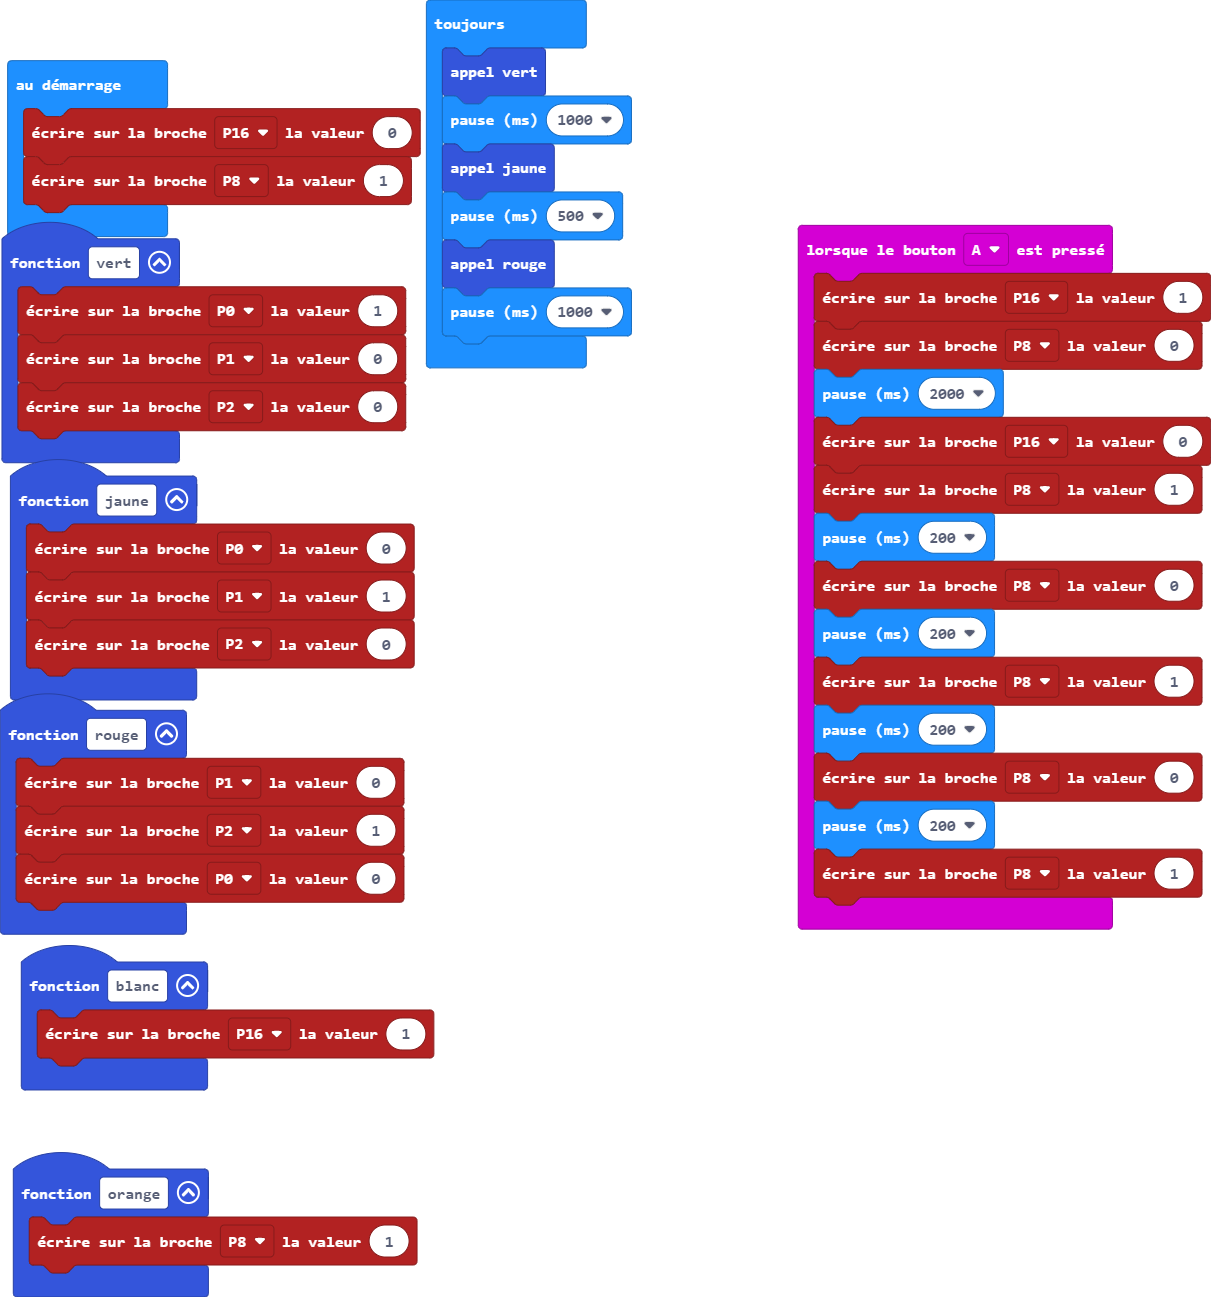
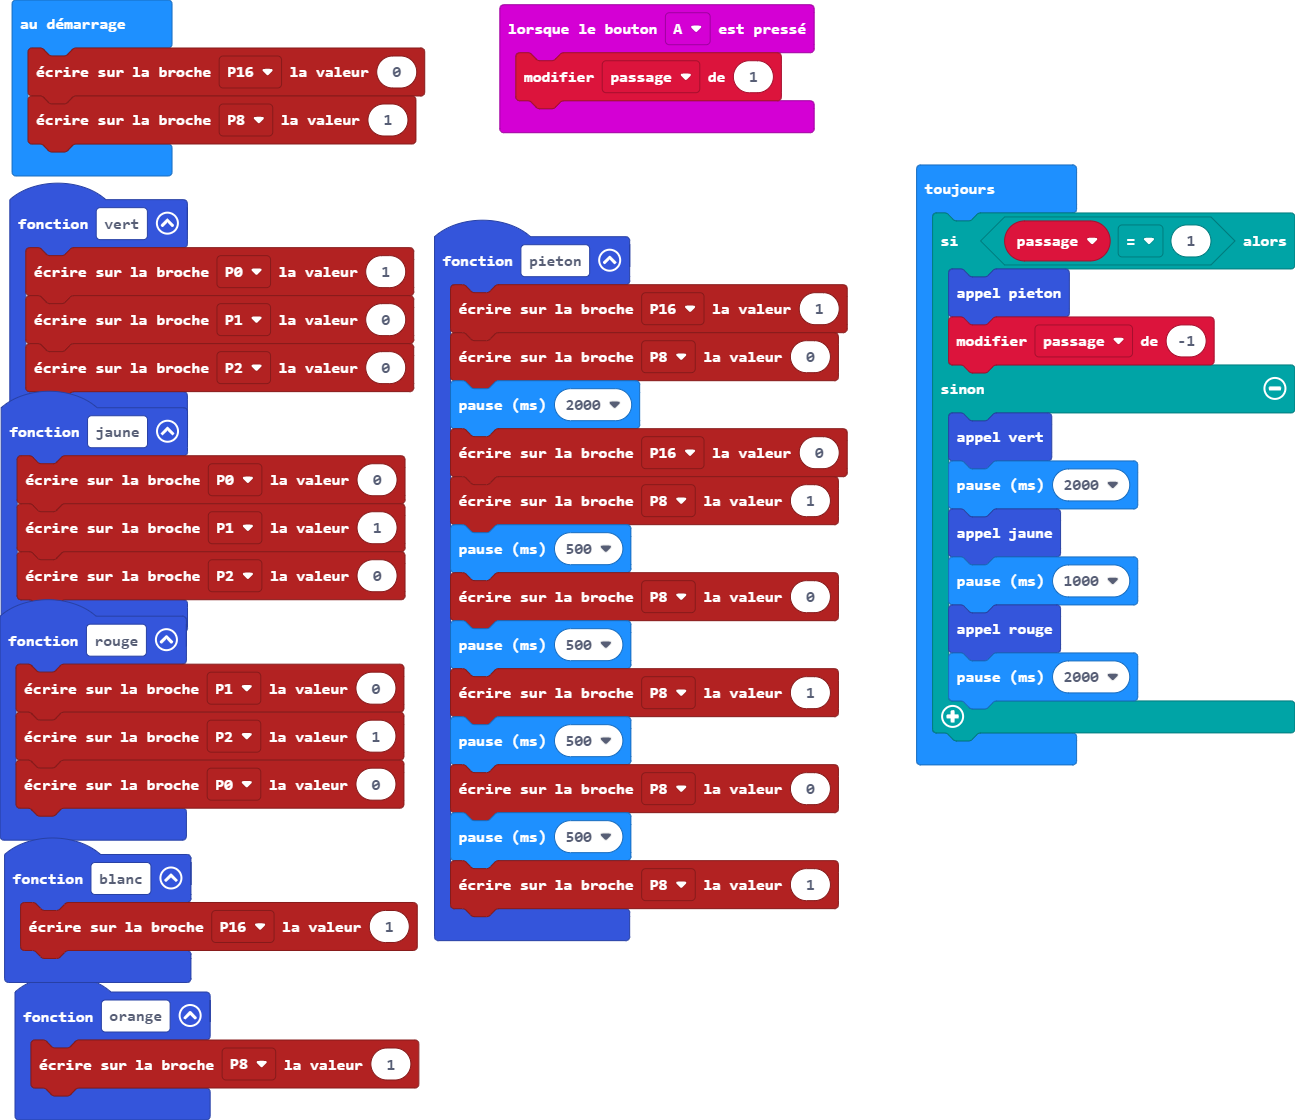
Mise à jour main.blocks, main.ts

diff --git a/main.ts b/main.ts
@@ -4,24 +4,27 @@ function jaune () {
     pins.digitalWritePin(DigitalPin.P2, 0)
 }
 input.onButtonPressed(Button.A, function () {
-    pins.digitalWritePin(DigitalPin.P16, 1)
-    pins.digitalWritePin(DigitalPin.P8, 0)
-    basic.pause(2000)
-    pins.digitalWritePin(DigitalPin.P16, 0)
-    pins.digitalWritePin(DigitalPin.P8, 1)
-    basic.pause(200)
-    pins.digitalWritePin(DigitalPin.P8, 0)
-    basic.pause(200)
-    pins.digitalWritePin(DigitalPin.P8, 1)
-    basic.pause(200)
-    pins.digitalWritePin(DigitalPin.P8, 0)
-    basic.pause(200)
-    pins.digitalWritePin(DigitalPin.P8, 1)
+    passage += 1
 })
 function blanc () {
     pins.digitalWritePin(DigitalPin.P16, 1)
 }
 function orange () {
+    pins.digitalWritePin(DigitalPin.P8, 1)
+}
+function pieton () {
+    pins.digitalWritePin(DigitalPin.P16, 1)
+    pins.digitalWritePin(DigitalPin.P8, 0)
+    basic.pause(2000)
+    pins.digitalWritePin(DigitalPin.P16, 0)
+    pins.digitalWritePin(DigitalPin.P8, 1)
+    basic.pause(500)
+    pins.digitalWritePin(DigitalPin.P8, 0)
+    basic.pause(500)
+    pins.digitalWritePin(DigitalPin.P8, 1)
+    basic.pause(500)
+    pins.digitalWritePin(DigitalPin.P8, 0)
+    basic.pause(500)
     pins.digitalWritePin(DigitalPin.P8, 1)
 }
 function rouge () {
@@ -34,13 +37,19 @@ function vert () {
     pins.digitalWritePin(DigitalPin.P1, 0)
     pins.digitalWritePin(DigitalPin.P2, 0)
 }
+let passage = 0
 pins.digitalWritePin(DigitalPin.P16, 0)
 pins.digitalWritePin(DigitalPin.P8, 1)
 basic.forever(function () {
-    vert()
-    basic.pause(1000)
-    jaune()
-    basic.pause(500)
-    rouge()
-    basic.pause(1000)
+    if (passage == 1) {
+        pieton()
+        passage += -1
+    } else {
+        vert()
+        basic.pause(2000)
+        jaune()
+        basic.pause(1000)
+        rouge()
+        basic.pause(2000)
+    }
 })
